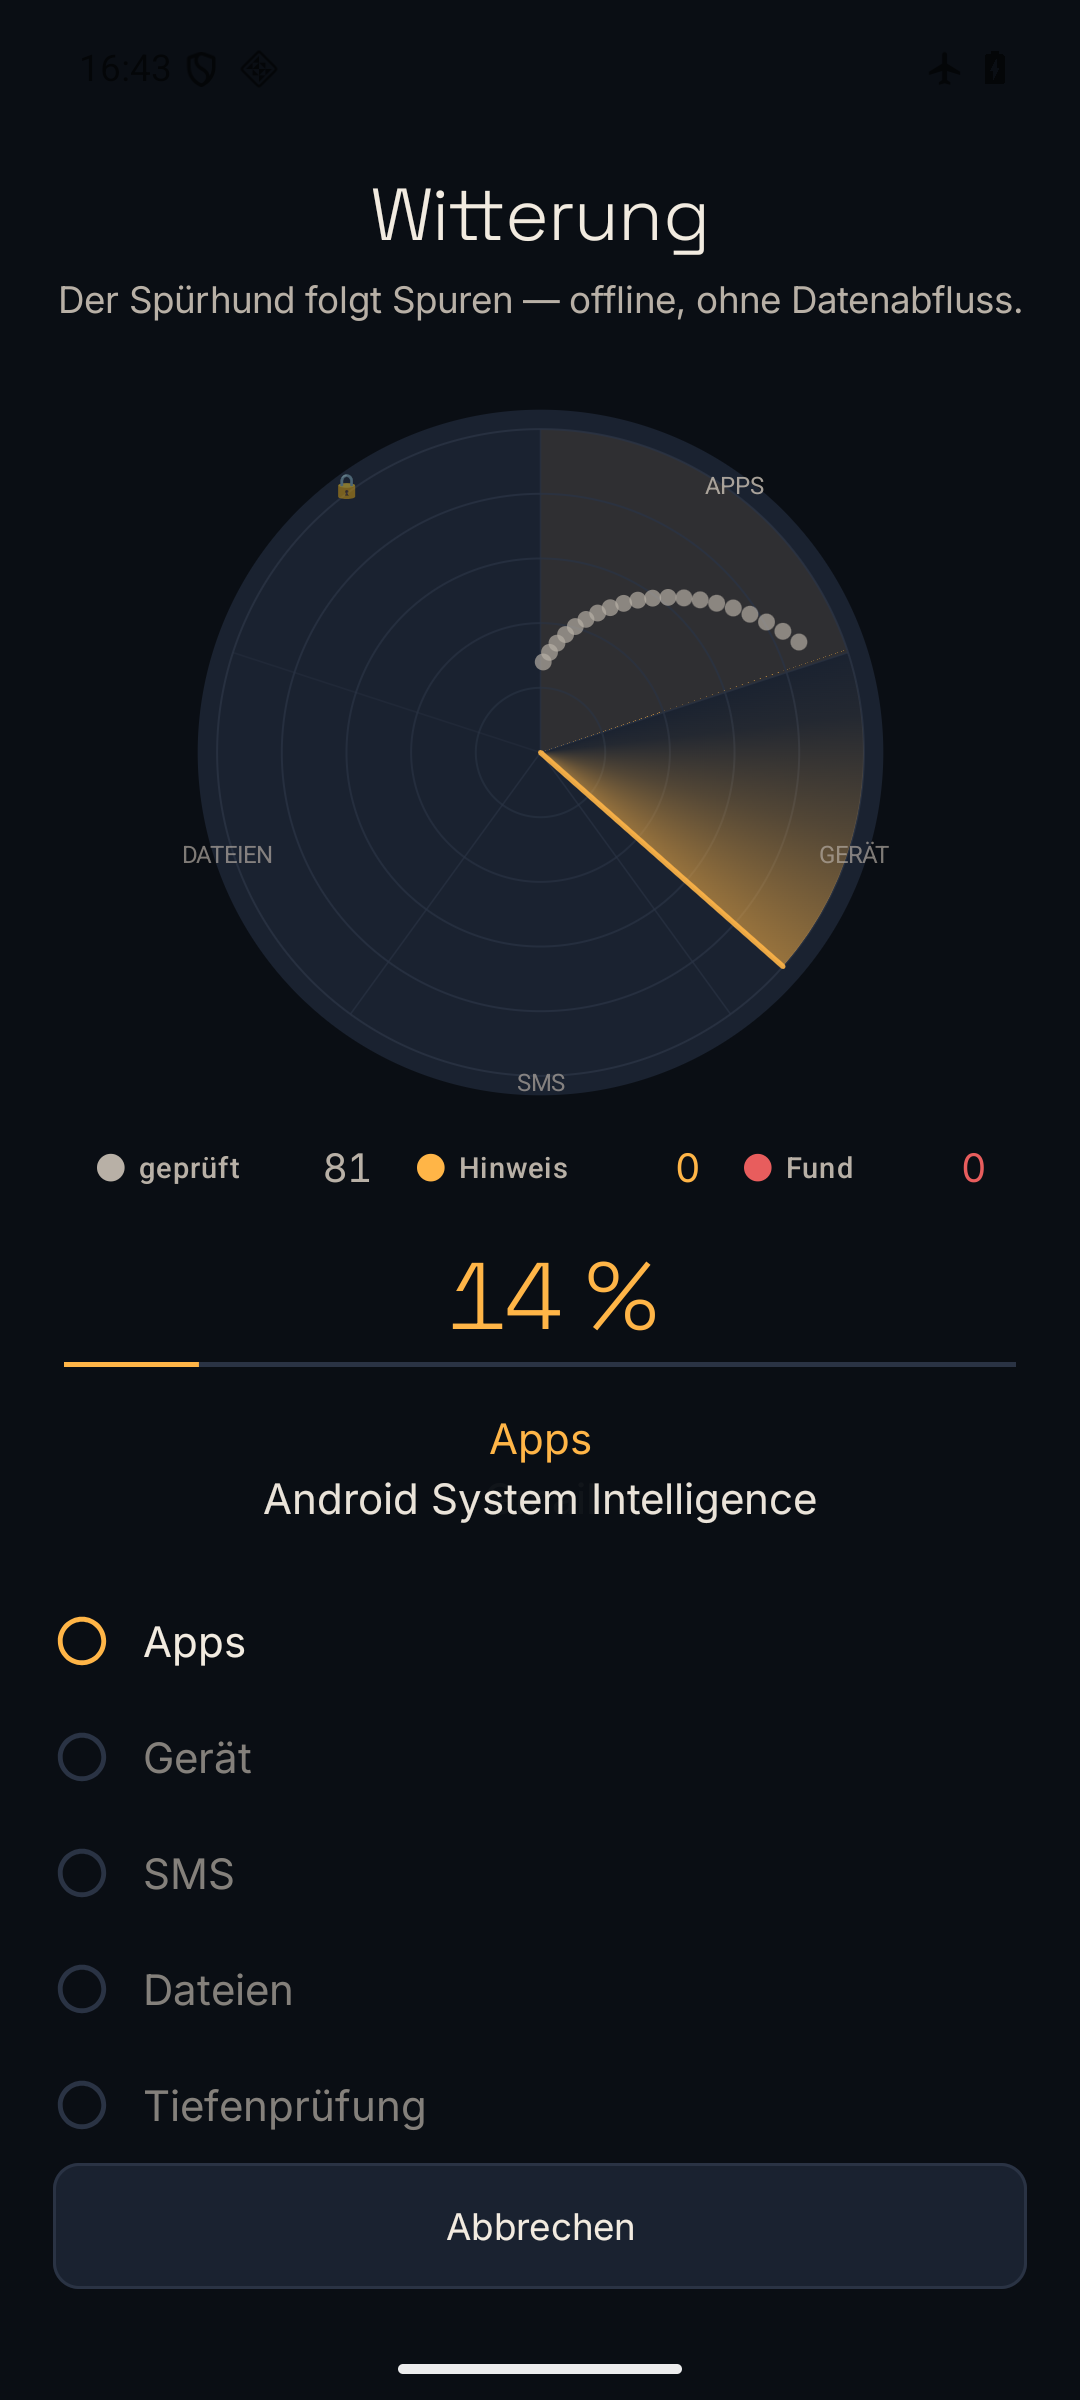
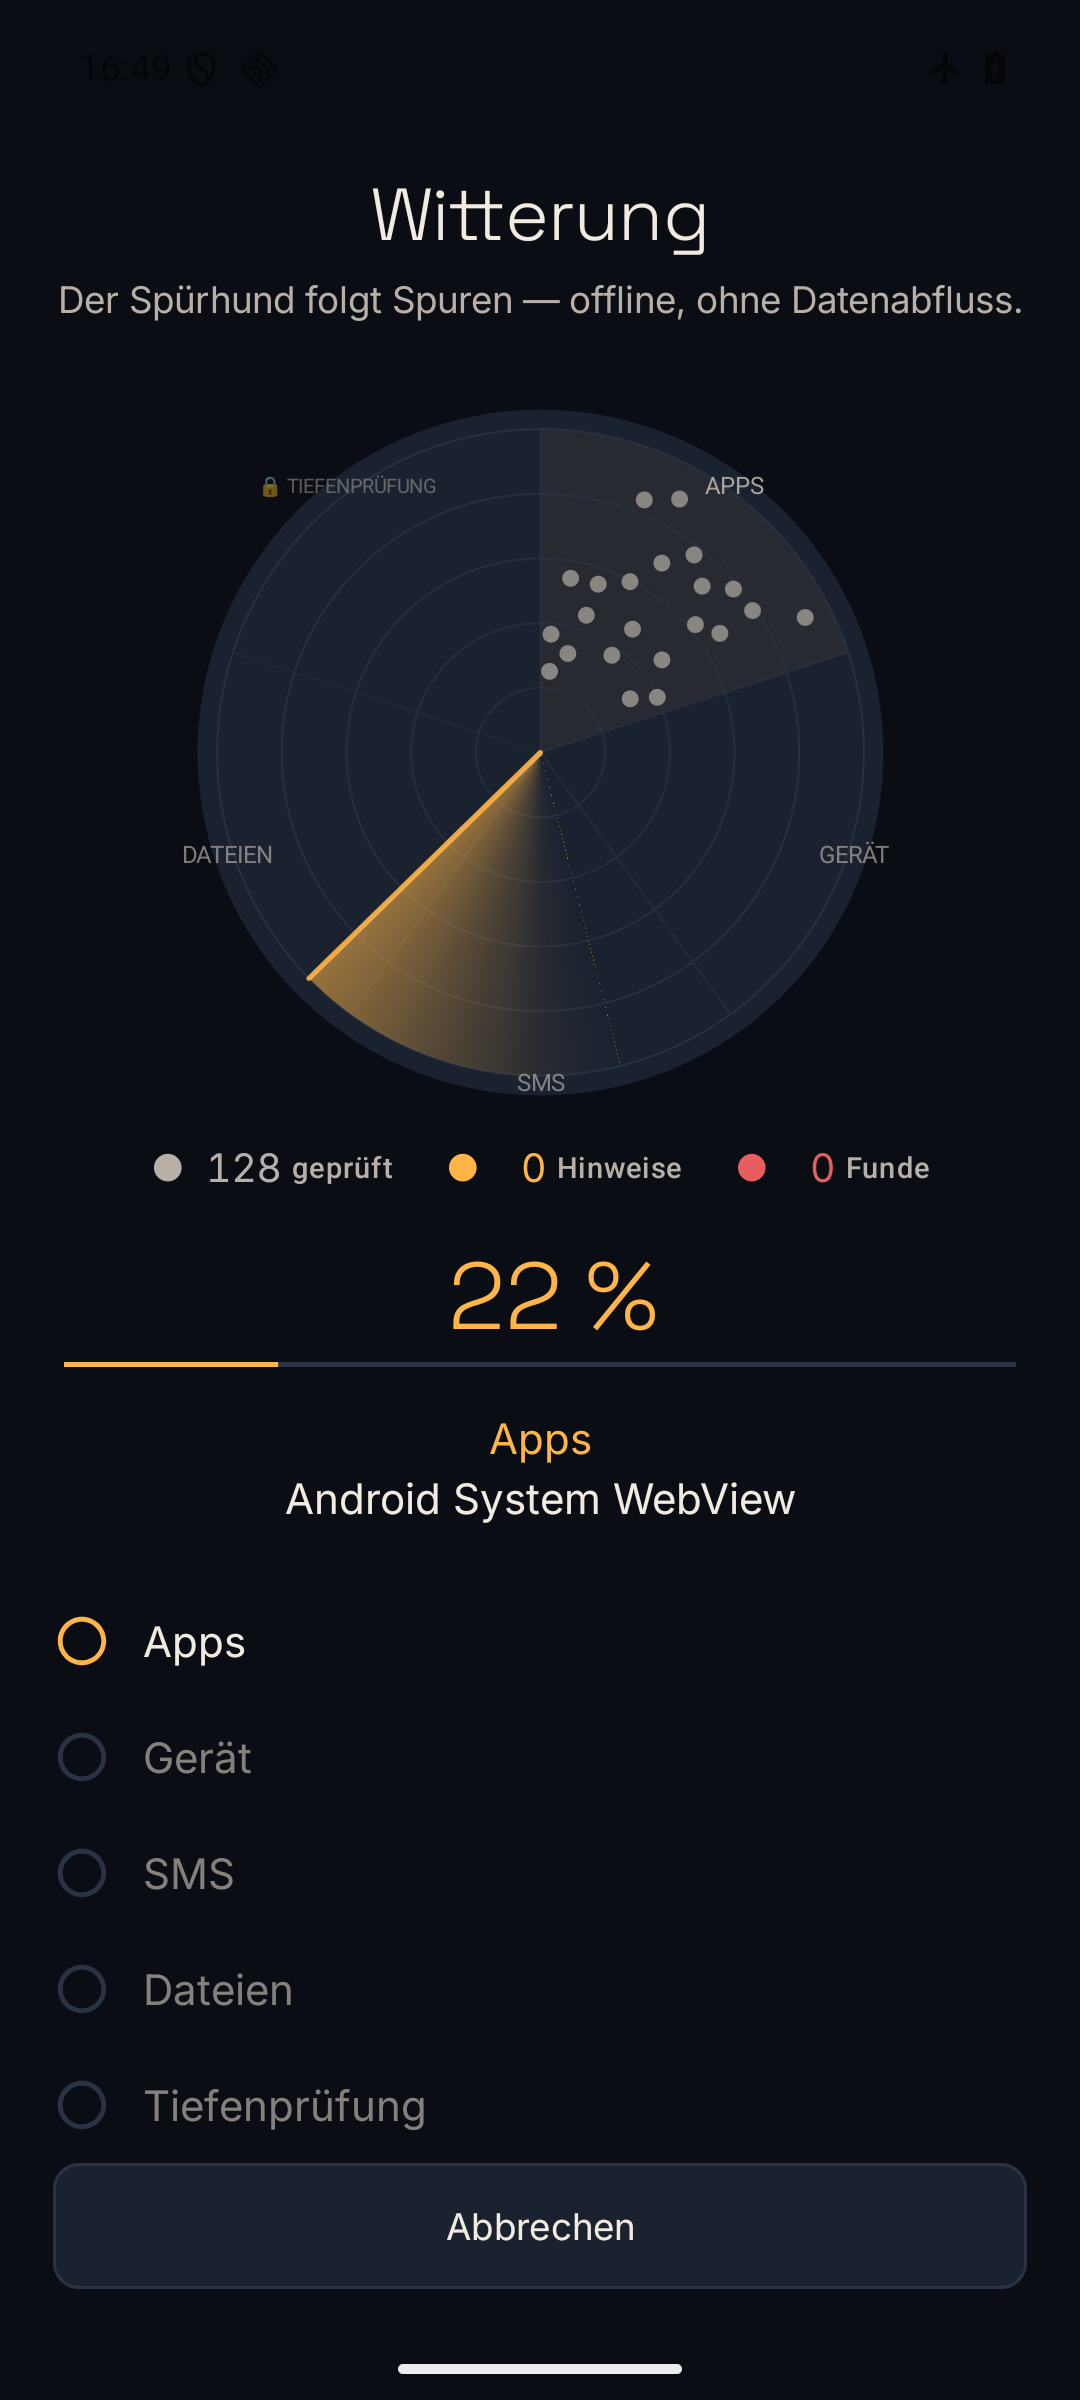
Radar: Blips im Sektor streuen, Legende und Beschriftung straffen.
Halton-/Goldwinkel-Layout mit Mindestabstand und Radiusband 25–92 %, dezenter Bernstein-Sektor, TIEFENPRÜFUNG mit Schloss; Emulator-Shots aktualisiert.

diff --git a/app/src/main/kotlin/de/belkis/spyhound/scan/RadarProgress.kt b/app/src/main/kotlin/de/belkis/spyhound/scan/RadarProgress.kt
@@ -1,7 +1,10 @@
 package de.belkis.spyhound.scan
 
 import kotlin.math.abs
+import kotlin.math.cos
+import kotlin.math.hypot
 import kotlin.math.min
+import kotlin.math.sin
 
 enum class RadarSector(val label: String) {
     APPS("Apps"),
@@ -45,6 +48,40 @@ data class BlipLayout(
 object RadarMath {
     const val MAX_BLIPS = 24
     const val SECTOR_COUNT = 5
+    const val BLIP_RADIUS_MIN = 0.25f
+    const val BLIP_RADIUS_MAX = 0.92f
+    /** Min center distance as fraction of radar radius (~1.5× blip diameter on scan canvas). */
+    const val BLIP_MIN_SEPARATION = 0.078f
+
+    private fun halton(base: Int, index: Int): Float {
+        var i = index
+        var f = 1f
+        var r = 0f
+        while (i > 0) {
+            f /= base.toFloat()
+            r += f * (i % base)
+            i /= base
+        }
+        return r
+    }
+
+    private fun polarDistance(r1: Float, a1Deg: Float, r2: Float, a2Deg: Float): Float {
+        val a1 = Math.toRadians(a1Deg.toDouble())
+        val a2 = Math.toRadians(a2Deg.toDouble())
+        val x1 = r1 * cos(a1)
+        val y1 = r1 * sin(a1)
+        val x2 = r2 * cos(a2)
+        val y2 = r2 * sin(a2)
+        return hypot(x1 - x2, y1 - y2).toFloat()
+    }
+
+    private fun wrapAngle(deg: Float, min: Float, max: Float): Float {
+        val span = max - min
+        var x = deg
+        while (x >= max) x -= span
+        while (x < min) x += span
+        return x
+    }
 
     fun mergeStatus(a: ElementStatus, b: ElementStatus): ElementStatus = when {
         a == ElementStatus.FINDING || b == ElementStatus.FINDING -> ElementStatus.FINDING
@@ -61,22 +98,77 @@ object RadarMath {
         }
     }
 
+    fun layoutBlipsInSector(
+        sectorIndex: Int,
+        blipCountInSector: Int,
+        sectorCount: Int = SECTOR_COUNT,
+    ): List<BlipLayout> {
+        val n = blipCountInSector
+        if (n <= 0) return emptyList()
+        if (n == 1) {
+            return listOf(
+                BlipLayout(
+                    angleDeg = sectorMidAngle(sectorIndex, sectorCount),
+                    radiusFraction = (BLIP_RADIUS_MIN + BLIP_RADIUS_MAX) / 2f,
+                ),
+            )
+        }
+        val span = 360f / sectorCount
+        val start = -90f + sectorIndex * span
+        val anglePad = span * 0.06f
+        val angleMin = start + anglePad
+        val angleMax = start + span - anglePad
+        val seed = sectorIndex * 7919 + 17
+
+        val scattered = List(n) { i ->
+            val key = i + seed
+            var u = halton(2, key)
+            val v = halton(3, key + 4099)
+            val golden = (137.507764f * (i + 1 + sectorIndex * 13)) % 360f / 360f
+            u = (u * 0.82f + golden * 0.18f).coerceIn(0f, 1f)
+            BlipLayout(
+                angleDeg = angleMin + u * (angleMax - angleMin),
+                radiusFraction = BLIP_RADIUS_MIN + v * (BLIP_RADIUS_MAX - BLIP_RADIUS_MIN),
+            )
+        }.sortedBy { it.radiusFraction }
+
+        val placed = ArrayList<BlipLayout>(n)
+        for (layout in scattered) {
+            var angleDeg = layout.angleDeg
+            var radiusFraction = layout.radiusFraction
+            var attempt = 0
+            while (attempt < 32) {
+                val clash = placed.any {
+                    polarDistance(radiusFraction, angleDeg, it.radiusFraction, it.angleDeg) < BLIP_MIN_SEPARATION
+                }
+                if (!clash) break
+                val nudge = halton(5, seed + placed.size * 31 + attempt) * (angleMax - angleMin) * 0.22f
+                angleDeg = wrapAngle(angleDeg + nudge, angleMin, angleMax)
+                val rNudge = (halton(7, seed + attempt + placed.size) - 0.5f) * 0.04f
+                radiusFraction = (radiusFraction + rNudge).coerceIn(BLIP_RADIUS_MIN, BLIP_RADIUS_MAX)
+                attempt++
+            }
+            placed += BlipLayout(angleDeg, radiusFraction)
+        }
+        return placed
+    }
+
+    private fun sectorMidAngle(sectorIndex: Int, sectorCount: Int): Float {
+        val span = 360f / sectorCount
+        return -90f + sectorIndex * span + span * 0.5f
+    }
+
     fun layoutBlipInSector(
         sectorIndex: Int,
         blipIndex: Int,
         blipCountInSector: Int,
         sectorCount: Int = SECTOR_COUNT,
     ): BlipLayout {
-        val span = 360f / sectorCount
-        val start = -90f + sectorIndex * span
-        val n = blipCountInSector.coerceAtLeast(1)
-        val angleDeg = start + span * ((blipIndex + 0.5f) / n)
-        val radiusFraction = if (n == 1) {
-            0.55f
-        } else {
-            0.28f + 0.62f * (blipIndex.toFloat() / (n - 1))
+        val layouts = layoutBlipsInSector(sectorIndex, blipCountInSector, sectorCount)
+        if (layouts.isEmpty()) {
+            return BlipLayout(sectorMidAngle(sectorIndex, sectorCount), (BLIP_RADIUS_MIN + BLIP_RADIUS_MAX) / 2f)
         }
-        return BlipLayout(angleDeg, radiusFraction)
+        return layouts[blipIndex.coerceIn(0, layouts.lastIndex)]
     }
 
     fun legendFromElements(elements: List<List<ElementStatus>>): RadarLegendCounts {

diff --git a/app/src/main/kotlin/de/belkis/spyhound/ui/components/Radar.kt b/app/src/main/kotlin/de/belkis/spyhound/ui/components/Radar.kt
@@ -16,7 +16,6 @@ import androidx.compose.foundation.layout.fillMaxWidth
 import androidx.compose.foundation.layout.height
 import androidx.compose.foundation.layout.padding
 import androidx.compose.foundation.layout.size
-import androidx.compose.foundation.layout.width
 import androidx.compose.foundation.shape.CircleShape
 import androidx.compose.material3.MaterialTheme
 import androidx.compose.material3.Surface
@@ -42,7 +41,6 @@ import androidx.compose.ui.graphics.drawscope.rotate
 import androidx.compose.ui.graphics.nativeCanvas
 import androidx.compose.ui.semantics.contentDescription
 import androidx.compose.ui.semantics.semantics
-import androidx.compose.ui.text.style.TextAlign
 import androidx.compose.ui.text.style.TextOverflow
 import androidx.compose.ui.unit.Dp
 import androidx.compose.ui.unit.dp
@@ -61,7 +59,7 @@ import kotlin.math.sin
 private const val SWEEP_DEG = 60f
 private const val SWEEP_FRAC = SWEEP_DEG / 360f
 private val LegendSlotHeight = 28.dp
-private val LegendCountWidth = 44.dp
+private val LegendItemSpacing = 20.dp
 
 private data class DrawBlip(
     val key: Long,
@@ -150,7 +148,7 @@ private fun androidx.compose.ui.graphics.drawscope.DrawScope.drawSectorGrid(
             }
             drawPath(
                 wedge,
-                color = SpyColors.Amber.copy(alpha = if (locked) 0.04f else 0.09f),
+                color = SpyColors.Amber.copy(alpha = 0.06f),
             )
         }
         val lineRad = Math.toRadians(start.toDouble())
@@ -179,7 +177,11 @@ private fun androidx.compose.ui.graphics.drawscope.DrawScope.drawSectorLabels(
         val rad = Math.toRadians(mid.toDouble())
         val x = center.x + cos(rad).toFloat() * labelR
         val y = center.y + sin(rad).toFloat() * labelR
-        val label = if (locked) "🔒" else sector.label.uppercase()
+        val label = if (locked) {
+            "🔒 ${sector.label.uppercase()}"
+        } else {
+            sector.label.uppercase()
+        }
         drawContext.canvas.nativeCanvas.apply {
             val paint = android.graphics.Paint(android.graphics.Paint.ANTI_ALIAS_FLAG).apply {
                 color = android.graphics.Color.argb(
@@ -188,7 +190,7 @@ private fun androidx.compose.ui.graphics.drawscope.DrawScope.drawSectorLabels(
                     176,
                     166,
                 )
-                textSize = 9.sp.toPx()
+                textSize = (if (locked) 7.5f else 9f).sp.toPx()
                 textAlign = android.graphics.Paint.Align.CENTER
             }
             drawText(label, x, y + paint.textSize * 0.35f, paint)
@@ -304,12 +306,12 @@ fun RadarLegend(
         modifier
             .fillMaxWidth()
             .height(LegendSlotHeight),
-        horizontalArrangement = Arrangement.SpaceEvenly,
+        horizontalArrangement = Arrangement.spacedBy(LegendItemSpacing, Alignment.CenterHorizontally),
         verticalAlignment = Alignment.CenterVertically,
     ) {
         LegendItem("geprüft", SpyColors.IvoryMuted, legend.clean, countStyle)
-        LegendItem("Hinweis", SpyColors.Amber, legend.lead, countStyle)
-        LegendItem("Fund", SpyColors.Danger, legend.finding, countStyle)
+        LegendItem("Hinweise", SpyColors.Amber, legend.lead, countStyle)
+        LegendItem("Funde", SpyColors.Danger, legend.finding, countStyle)
     }
 }
 
@@ -323,25 +325,20 @@ private fun LegendItem(
     Row(verticalAlignment = Alignment.CenterVertically) {
         Text("●", color = dotColor, style = MaterialTheme.typography.labelLarge)
         Text(
+            count.toString().padStart(4),
+            style = countStyle,
+            color = dotColor,
+            maxLines = 1,
+            modifier = Modifier.padding(start = 4.dp),
+        )
+        Text(
             label,
             style = MaterialTheme.typography.labelSmall,
             color = SpyColors.IvoryMuted,
-            modifier = Modifier.padding(start = 4.dp, end = 6.dp),
+            modifier = Modifier.padding(start = 4.dp),
             maxLines = 1,
             overflow = TextOverflow.Clip,
         )
-        Box(
-            modifier = Modifier.width(LegendCountWidth),
-            contentAlignment = Alignment.CenterEnd,
-        ) {
-            Text(
-                count.toString().padStart(4),
-                style = countStyle,
-                color = dotColor,
-                maxLines = 1,
-                textAlign = TextAlign.End,
-            )
-        }
     }
 }
 

diff --git a/app/src/test/kotlin/de/belkis/spyhound/RadarBlipTest.kt b/app/src/test/kotlin/de/belkis/spyhound/RadarBlipTest.kt
@@ -5,6 +5,9 @@ import de.belkis.spyhound.scan.RadarMath
 import org.junit.Assert.assertEquals
 import org.junit.Assert.assertTrue
 import org.junit.Test
+import kotlin.math.cos
+import kotlin.math.hypot
+import kotlin.math.sin
 
 class RadarBlipTest {
     @Test
@@ -29,6 +32,52 @@ class RadarBlipTest {
         val first = RadarMath.layoutBlipInSector(0, 0, 8)
         val last = RadarMath.layoutBlipInSector(0, 7, 8)
         assertTrue(last.radiusFraction > first.radiusFraction)
+    }
+
+    @Test
+    fun blipRadiusStaysInScanBand() {
+        repeat(RadarMath.SECTOR_COUNT) { sector ->
+            val layouts = RadarMath.layoutBlipsInSector(sector, 24)
+            layouts.forEach { layout ->
+                assertTrue(layout.radiusFraction >= RadarMath.BLIP_RADIUS_MIN)
+                assertTrue(layout.radiusFraction <= RadarMath.BLIP_RADIUS_MAX)
+            }
+        }
+    }
+
+    @Test
+    fun blipLayoutsAreDeterministic() {
+        val a = RadarMath.layoutBlipsInSector(2, 18)
+        val b = RadarMath.layoutBlipsInSector(2, 18)
+        assertEquals(a, b)
+    }
+
+    @Test
+    fun blipLayoutsRespectMinSeparation() {
+        repeat(RadarMath.SECTOR_COUNT) { sector ->
+            val layouts = RadarMath.layoutBlipsInSector(sector, RadarMath.MAX_BLIPS)
+            for (i in layouts.indices) {
+                for (j in i + 1 until layouts.size) {
+                    val a = layouts[i]
+                    val b = layouts[j]
+                    val d = polarDistance(a.radiusFraction, a.angleDeg, b.radiusFraction, b.angleDeg)
+                    assertTrue(
+                        "sector $sector blips $i/$j too close: $d",
+                        d >= RadarMath.BLIP_MIN_SEPARATION * 0.98f,
+                    )
+                }
+            }
+        }
+    }
+
+    private fun polarDistance(r1: Float, a1Deg: Float, r2: Float, a2Deg: Float): Float {
+        val a1 = Math.toRadians(a1Deg.toDouble())
+        val a2 = Math.toRadians(a2Deg.toDouble())
+        val x1 = r1 * cos(a1)
+        val y1 = r1 * sin(a1)
+        val x2 = r2 * cos(a2)
+        val y2 = r2 * sin(a2)
+        return hypot(x1 - x2, y1 - y2).toFloat()
     }
 
     @Test
